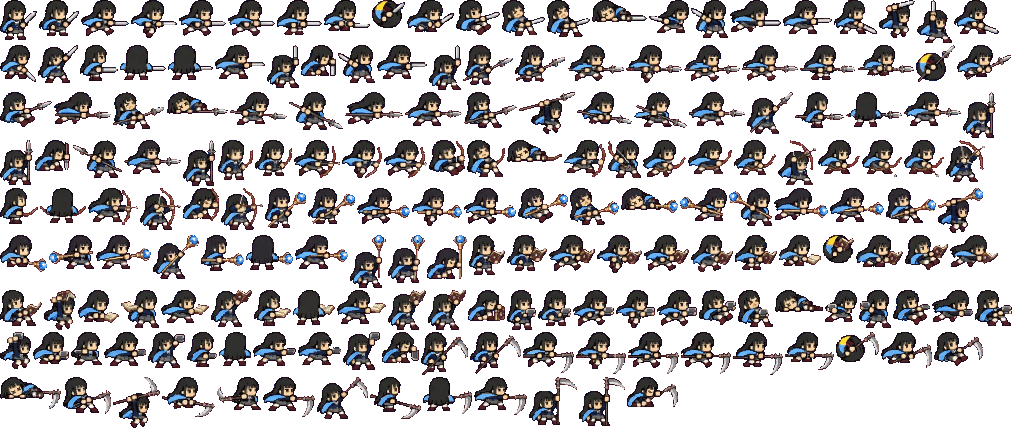
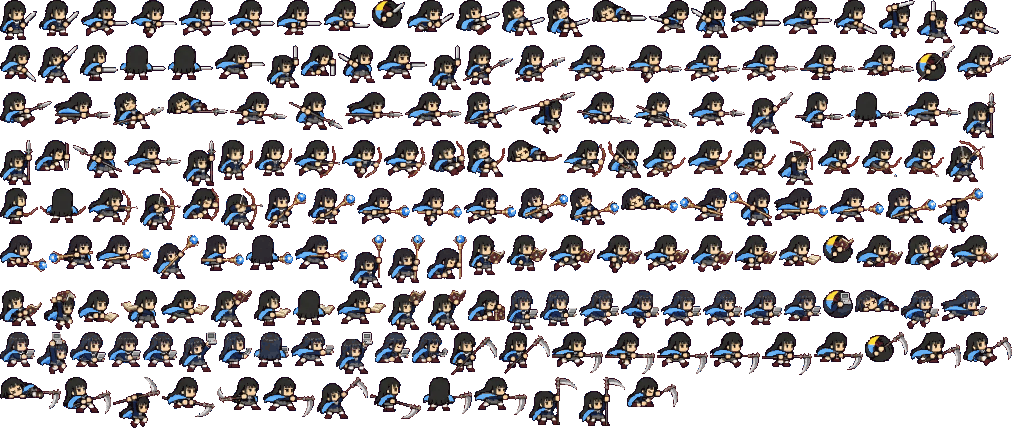
替换小凛翻盖掌机动作帧并重新校准图集

Changed region(s): [[0.0, 0.6682, 1.0, 0.8808]]

diff --git a/tools/pixel/build_heroF_new.py b/tools/pixel/build_heroF_new.py
@@ -19,7 +19,7 @@ SOURCES = {
     "bow": SRC_DIR / "media_1795798116744_e4bde02a.webp",
     "staff": SRC_DIR / "media_1795798116744_3119fc45.webp",
     "tome": SRC_DIR / "media_1795798116743_cb4eefc9.webp",
-    "gun": SRC_DIR / "media_1795798116743_2da66deb.webp",
+    "gun": SRC_DIR / "media_1795802244111_0a06ca86.webp",
     "scythe": SRC_DIR / "media_1795798116743_09432bf7.webp",
 }
 
@@ -138,12 +138,12 @@ ACTION_MAPS = {
     },
     "gun": {
         "idle": [0, 1],
-        "run": [2, 3, 4, 3],
-        "roll": [14, 10, 11],
-        "back": [5],
-        "hurt": [6],
-        "dead": [7],
-        "charge": [8, 9],
+        "run": [2, 3, 4, 5],
+        "roll": [7, 8, 14],
+        "back": [10],
+        "hurt": [10],
+        "dead": [9],
+        "charge": [12, 15],
         "dash": [11],
         "stop": [12],
         "jump": [13],
@@ -151,12 +151,12 @@ ACTION_MAPS = {
         "press": [15, 16, 20],
         "rapid": [16, 20],
         "aim": [17, 20],
-        "toss": [8, 21],
+        "toss": [16, 20],
         "sky": [17],
-        "up": [22],
-        "finish": [23],
-        "atk": [9, 20],
-        "big": [22],
+        "up": [21],
+        "finish": [22],
+        "atk": [15, 20],
+        "big": [21],
     },
     "scythe": {
         "idle": [0, 1],
@@ -374,7 +374,7 @@ def compute_anchor(im, act, idx, weapon):
     r, g, b = a[:, :, 0], a[:, :, 1], a[:, :, 2]
 
     # Special poses
-    if act == "roll" and idx == 1 and weapon in ("sword", "spear", "tome", "scythe"):
+    if act == "roll" and idx == 1 and weapon in ("sword", "spear", "tome", "gun", "scythe"):
         # Ball roll: center of the dark/yellow/blue ball
         yy, xx = np.where(al)
         # Exclude long protruding spear/scythe shaft by looking at dense core
@@ -416,7 +416,7 @@ def compute_anchor(im, act, idx, weapon):
     # Airborne offsets matching old heroF (jump floats ~4px, back floats ~3px)
     if act == "jump":
         ay = round(boot_bot + 5.0, 1)
-    elif act == "back" or (act == "roll" and idx == 1 and weapon in ("bow", "staff", "gun")):
+    elif act == "back" or (act == "roll" and idx == 1 and weapon in ("bow", "staff")):
         ay = round(boot_bot + 3.0, 1)
 
     return ax, ay

diff --git a/docs/TODO.md b/docs/TODO.md
@@ -308,3 +308,4 @@
 - 按 11/22 出招帧基准补齐 `js/skframes.js` 缺失的 30 个新技能配置（剑 2、枪 3、弓 2、法杖 8、通用 15），全部 92 个技能均有显式前摇/出手/持续/后摇/前冲配置；同时微调圣典/镰刀宗师大招收招帧（`rc: ['finish0']`）及镰刀近战横扫 `lunge: 2`，保留全部原有 `ED` 调优结果。
 - 升级 `tools/frames.html`：新增角色切换（阿远新版 7 武器 / 小凛新版 7 武器 / 旧男主 / 旧小凛）和全部 8 个技能分页（剑/枪/弓/法杖/掌机/圣典/镰刀/通用），补齐中文动作名。
 - 核对结果：92/92 技能在阿远（`Gemini2Cal`）与小凛（`heroFNew`）七套图集下均 0 缺帧、0 越界、0 语法错误。
+- 小凛掌机替换（2026-11-28）：将小凛掌机素材替换为新翻盖掌机 24 帧图集（缩放倍率 `0.4690`，`idle0` 身高 `39.6px`），补齐 4 帧完整跑步循环与独立滚球帧（`roll1`），同步更新 `art/heroFNew/atlas.{png,json}`、`compare.png` 与 `tools/pixel/build_heroF_new.py`。
